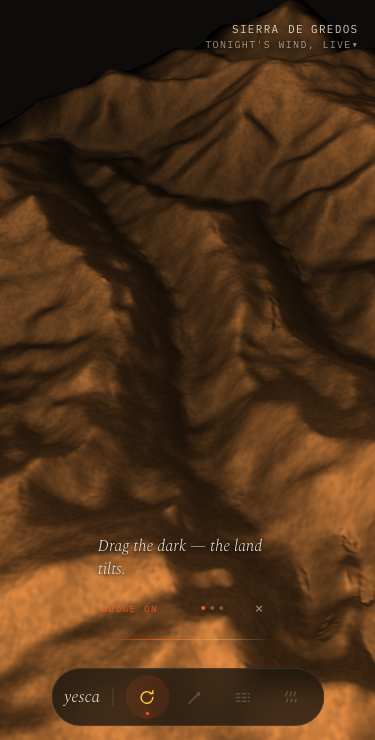
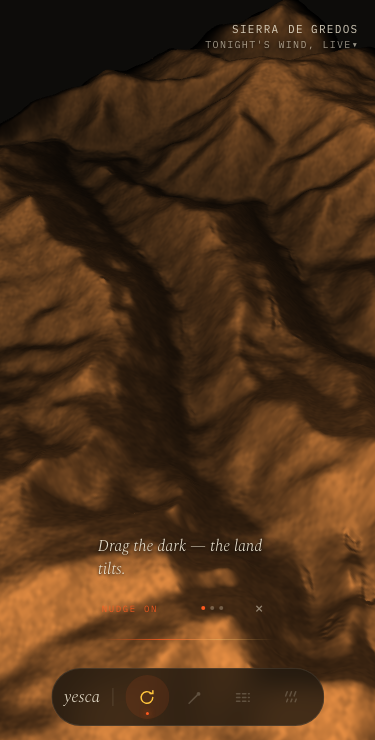
r13: walk the finger in screen space; keyframe exits that own the element
Design review r12 (live-driven): 8 axes at 8, two at 7.

Feel of direct manipulation (7 → fixes):
- pointer moves now walk the real screen path every ~8px and raycast each
  step — a UV chord between sparse events cut across ridges the finger
  never touched (probe: 20/20 fuelled cells cleared on a fast flick)
- Sim.stamp batches strokes into 64-point shader batches instead of
  striding every nth point — long strokes land whole
- release replays the walked path for firebreak and rain, not the sparse
  endpoints; rain gets the same continuous treatment during the drag
- hover whispers fade out when the pointer leaves a scar (fadeWhisper)

Motion quality (7 → fixes):
- every dismissible surface exits via a to-only keyframe animation, not
  animation:none + transition — removing a running animation never seeds
  a transition, so mid-entrance skips teleported to opacity 0. now
  guide-out/sheet-out/tray-out/chip-out/notice-out/back-out interpolate
  from the live value (getAnimations: a real tween runs)
- .guide.out selector prefixed with body.revealed so it outranks the
  entrance rule's specificity (0,3,1 > 0,2,1)
- guide stays mounted 460ms for the 420ms exit, not 500ms past a
  transition that couldn't run
- share chip stays mounted under the open sheet — the scrim covers it,
  the close reveals it; no chip-in replay

Plus: satellite count uses the animated NumberFlow like every other
instrument; g-morph is aria-hidden so TextMorph's internal word clones
[…]

diff --git a/src/App.tsx b/src/App.tsx
@@ -114,6 +114,11 @@ export default function App() {
       if (id === whisperSeq.current) setHoverTag(null);
     }, ms + 180);
   };
+  // hover whispers fade too — moving off a scar is not a teleport either
+  const fadeWhisper = () => {
+    setHoverTag((h) => (h ? { ...h, out: true } : h));
+    setTimeout(() => setHoverTag((h) => (h?.out ? null : h)), 200);
+  };
   const [offline, setOffline] = useState(!navigator.onLine);
   const [notice, setNotice] = useState<string | null>(null);
   const [noticeOut, setNoticeOut] = useState(false);
@@ -363,7 +368,8 @@ export default function App() {
       setGuideGone(false);
       return;
     }
-    const t = setTimeout(() => setGuideGone(true), 500);
+    // the exit transition is 420ms — hold the node just past it, not 1.25s
+    const t = setTimeout(() => setGuideGone(true), 460);
     return () => clearTimeout(t);
   }, [guideStep]);
 
@@ -410,6 +416,7 @@ export default function App() {
     let hoverAt = 0;
 
     let pressPt: { x: number; y: number; id: number } | null = null;
+    let lastEv: { x: number; y: number } | null = null;
     const down = (e: PointerEvent) => {
       const p = stage.pick(e.clientX, e.clientY);
       gatePick = p; // fresh every press, before any branch consumes it
@@ -422,6 +429,7 @@ export default function App() {
       if (!p) return; // off-terrain presses fall through to orbit
       e.stopImmediatePropagation();
       paintId = e.pointerId;
+      lastEv = { x: e.clientX, y: e.clientY };
       stroke = [{ u: p.u, v: p.v }];
       if (t === "match") {
         sim.stamp(3, stroke, 5);
@@ -447,42 +455,51 @@ export default function App() {
             const c = sim.cell(p.u, p.v);
             if (c[0]! >= 1.5 && c[2]! > 0) {
               const ago = Math.max(1, Math.round((sim.time - c[2]!) / 60));
+              whisperSeq.current++; // a fresh whisper invalidates old timers
               setHoverTag({
                 x: e.clientX,
                 y: e.clientY,
                 text: `burned ${ago} min ago`,
               });
-            } else setHoverTag(null);
-          } else setHoverTag(null);
+            } else fadeWhisper();
+          } else fadeWhisper();
         }
         return;
       }
       if (e.pointerId !== paintId) return;
-      const p = stage.pick(e.clientX, e.clientY);
-      if (!p) return;
-      const last = stroke[stroke.length - 1];
-      if (last && Math.hypot(p.u - last.u, p.v - last.v) > 6 / 768) {
-        // densify so a fast hand leaves a continuous mark, not dots — the
-        // match scores and the firebreak cuts share the same interpolation
-        const d = Math.hypot(p.u - last.u, p.v - last.v);
-        const steps = Math.max(1, Math.ceil(d / (2 / 768)));
-        const dense: { u: number; v: number }[] = [];
-        for (let k = 1; k <= steps; k++) {
-          dense.push({ u: last.u + (p.u - last.u) * (k / steps), v: last.v + (p.v - last.v) * (k / steps) });
+      const from = lastEv ?? { x: e.clientX, y: e.clientY };
+      lastEv = { x: e.clientX, y: e.clientY };
+      // walk the finger's real path in screen space, ~8px at a time — a chord
+      // between two sparse picks cuts across a ridge it never touched
+      const seg = Math.hypot(e.clientX - from.x, e.clientY - from.y);
+      const steps = Math.min(80, Math.max(1, Math.ceil(seg / 8)));
+      const fresh: { u: number; v: number }[] = [];
+      for (let k = 1; k <= steps; k++) {
+        const sp = stage.pick(
+          from.x + ((e.clientX - from.x) * k) / steps,
+          from.y + ((e.clientY - from.y) * k) / steps,
+        );
+        if (!sp) continue; // off the slab — the mark stops where the land does
+        const last = stroke[stroke.length - 1];
+        if (!last || Math.hypot(sp.u - last.u, sp.v - last.v) > 2 / 768) {
+          const pt = { u: sp.u, v: sp.v };
+          stroke.push(pt);
+          fresh.push(pt);
         }
-        stroke.push({ u: p.u, v: p.v });
-        if (t === "match") {
-          sim.stamp(3, dense, 5);
-          fx.sputter(p.u, p.v);
-        } else if (t === "break") {
-          sim.stamp(1, dense, 10);
-        }
+      }
+      if (!fresh.length) return;
+      const head = fresh[fresh.length - 1]!;
+      if (t === "match") {
+        sim.stamp(3, fresh, 5);
+        fx.sputter(head.u, head.v);
+      } else if (t === "break") {
+        sim.stamp(1, fresh, 10);
       }
       if (t === "rain") {
         const now = performance.now();
         if (now - lastRain > 90) {
-          sim.stamp(2, [stroke[stroke.length - 1]!], 34, 0.9);
-          fx.rain(p.u, p.v);
+          sim.stamp(2, fresh, 34, 0.9);
+          fx.rain(head.u, head.v);
           rainDamp.current = Math.min(6, rainDamp.current + 0.8);
           lastRain = now;
         }
@@ -518,6 +535,7 @@ export default function App() {
       if (pressPt?.id === e.pointerId) pressPt = null;
       if (paintId === -1 || e.pointerId !== paintId) return;
       paintId = -1;
+      lastEv = null;
       if (toolRef.current === "match" && stroke.length) {
         // a dragged match drops a line of fire along the last stretch,
         // then flares where the stroke ends
@@ -540,12 +558,17 @@ export default function App() {
         }, 1800);
       }
       if (toolRef.current === "break" && stroke.length) {
+        // the finishing cut replays the walked path, not the sparse endpoints
         sim.stamp(1, stroke, 10);
         brokeOnce.current = true;
         nudge();
         advanceGuide();
       }
-      if (toolRef.current === "rain" && stroke.length) nudge();
+      if (toolRef.current === "rain" && stroke.length) {
+        // the whole wet path lands, even under the 90ms throttle
+        sim.stamp(2, stroke, 30, 0.9);
+        nudge();
+      }
       stroke = [];
       e.stopImmediatePropagation();
     };
@@ -556,6 +579,7 @@ export default function App() {
       if (pressPt?.id === e.pointerId) pressPt = null;
       if (paintId === -1 || e.pointerId !== paintId) return;
       paintId = -1;
+      lastEv = null;
       stroke = [];
       e.stopImmediatePropagation();
     };
@@ -564,10 +588,7 @@ export default function App() {
     canvas.addEventListener("pointerup", upEvt, true);
     canvas.addEventListener("pointercancel", cancelEvt, true);
     // the whisper fades out under the leaving hand rather than cutting away
-    const leave = () => {
-      setHoverTag((h) => (h ? { ...h, out: true } : h));
-      setTimeout(() => setHoverTag((h) => (h?.out ? null : h)), 200);
-    };
+    const leave = () => fadeWhisper();
     canvas.addEventListener("pointerleave", leave);
     return () => {
       canvas.removeEventListener("pointerdown", down, true);
@@ -794,7 +815,15 @@ export default function App() {
               title="real detections from NASA's satellites, last few days"
             >
               <span className="lbl">
-                real burns{hotspots?.length ? ` · ${hotspots.length}` : ""}
+                real burns
+                {hotspots?.length ? (
+                  <>
+                    {" "}
+                    · <NumberFlow value={hotspots.length} format={{ maximumFractionDigits: 0 }} />
+                  </>
+                ) : (
+                  ""
+                )}
               </span>
               <i className="sw" />
             </button>
@@ -818,7 +847,9 @@ export default function App() {
             </button>
           </div>
 
-          {burntKm2 > 0.004 && !shareOpen && guideStep === "done" && (
+          {/* the chip never leaves — the sheet-back scrim covers it while open,
+              and the close just reveals it instead of replaying chip-in */}
+          {burntKm2 > 0.004 && guideStep === "done" && (
             <button
               className="sharechip"
               onClick={(e) => {

diff --git a/src/index.css b/src/index.css
@@ -367,7 +367,11 @@ body.revealed .rail.dim, body.revealed .instruments.dim {
    gives the sentence its own line and the controls the next */
 .g-top, .g-meta { display: contents; }
 /* TextMorph can't wrap — the phone swaps it for a plain twin of the lesson */
-.g-plain { display: none; }
+/* desktop: the morph paints, the plain copy reads — hidden visually, not to AT */
+.g-plain {
+  position: absolute; width: 1px; height: 1px;
+  overflow: hidden; clip-path: inset(50%); white-space: nowrap;
+}
 /* the pointer copy can't teach keys — this line exists only for tab users */
 .g-keys {
   display: none;
@@ -407,11 +411,18 @@ body.kb .g-keys { display: inline; }
 }
 .g-skip:hover { opacity: 0.9; }
 .g-skip:focus-visible { outline: 1px solid var(--amber); outline-offset: 3px; }
-/* the lesson leaves the way it came — a fade, not a vanish */
+/* the lesson leaves the way it came — a fade, not a vanish. the exit is a
+   keyframe, not a transition: a `to`-only animation interpolates from the live
+   computed value, so a skip mid-entrance fades from wherever hud-in-c had
+   reached. a removed animation would not seed a transition — it jumps.
+   the prefixed selector outranks body.revealed .guide's entrance rule */
+body.revealed .guide.out,
 .guide.out {
-  opacity: 0; transform: translateX(-50%) translateY(8px);
-  transition: opacity 420ms var(--ease-out), transform 420ms var(--ease-out);
+  animation: guide-out 420ms var(--ease-out) both;
   pointer-events: none;
+}
+@keyframes guide-out {
+  to { opacity: 0; transform: translateX(-50%) translateY(8px); }
 }
 .guide { transition: opacity 300ms var(--ease-out), transform 300ms var(--ease-out); }
 
@@ -429,7 +440,11 @@ body.kb .g-keys { display: inline; }
   animation: chip-in 260ms var(--ease-out) backwards;
   transition: opacity 160ms var(--ease-out); /* whispers fade, they don't blink */
 }
-.hoverchip.out { opacity: 0; }
+/* same to-only pattern — fades from wherever the entrance had reached */
+.hoverchip.out { animation: chip-out 160ms var(--ease-out) both; }
+@keyframes chip-out {
+  to { opacity: 0; }
+}
 @keyframes chip-in {
   from { opacity: 0; transform: translateY(calc(-100% + 4px)); }
   to { opacity: 1; transform: translateY(-100%); }
@@ -452,8 +467,12 @@ body.kb .g-keys { display: inline; }
   animation: guide-in 400ms var(--ease-spring) backwards;
   transition: opacity 180ms var(--ease-out), transform 180ms var(--ease-out);
 }
-/* a status that arrives with motion leaves with motion too */
-.offline.out { opacity: 0; transform: translateX(-50%) translateY(-4px); }
+/* a status that arrives with motion leaves with motion too — to-only so a
+   dismiss mid-entrance starts from the live value */
+.offline.out { animation: notice-out 180ms var(--ease-out) both; }
+@keyframes notice-out {
+  to { opacity: 0; transform: translateX(-50%) translateY(-4px); }
+}
 
 /* ---------- place tray ---------- */
 
@@ -477,8 +496,11 @@ body.kb .g-keys { display: inline; }
 }
 .placetray { transition: opacity 240ms var(--ease-out), transform 240ms var(--ease-out); }
 .placetray.out {
-  opacity: 0; transform: scale(0.97) translateY(-4px);
+  animation: tray-out 240ms var(--ease-out) both;
   pointer-events: none;
+}
+@keyframes tray-out {
+  to { opacity: 0; transform: scale(0.97) translateY(-4px); }
 }
 .pt-head { padding: 10px 12px 8px; border-bottom: 1px solid rgba(233,225,206,0.08); }
 .pt-head input {
@@ -554,7 +576,10 @@ body.kb .g-keys { display: inline; }
   transition: opacity 240ms var(--ease-out);
 }
 @keyframes fade-in { from { opacity: 0; } }
-.sheet-back.out { opacity: 0; pointer-events: none; }
+.sheet-back.out { animation: back-out 240ms var(--ease-out) both; pointer-events: none; }
+@keyframes back-out {
+  to { opacity: 0; }
+}
 .sheet {
   background: none;
   border: none;
@@ -571,10 +596,13 @@ body.kb .g-keys { display: inline; }
   from { opacity: 0; transform: translateY(14px) scale(0.96) rotate(-0.6deg); }
   to { opacity: 1; transform: none; }
 }
-/* the close retraces the open — the card folds back toward the chip's corner */
+/* the close retraces the open — the card folds back toward the chip's corner.
+   to-only so a close during sheet-in folds from wherever the card had got to */
 .sheet-back.out .sheet {
-  opacity: 0;
-  transform: scale(0.94) translateY(10px) rotate(-0.6deg);
+  animation: sheet-out 220ms var(--ease-out) both;
+}
+@keyframes sheet-out {
+  to { opacity: 0; transform: scale(0.94) translateY(10px) rotate(-0.6deg); }
 }
 .sheet canvas {
   width: 100%; height: auto; display: block;
@@ -647,7 +675,7 @@ body.kb .g-keys { display: inline; }
   .sheet-actions button, .sheet-actions a { min-height: 44px; display: inline-flex; align-items: center; }
   /* rail tops out at 148+44=192 — the chip clears it with room to spare */
   .sharechip { left: 16px; bottom: 204px; min-height: 44px; display: inline-flex; align-items: center; }
-  .tray { bottom: 14px; padding: 6px 10px 6px 12px; }
+  .tray { bottom: calc(14px + env(safe-area-inset-bottom)); padding: 6px 10px 6px 12px; }
   .dock-brand span { display: none; }
   .tbtn { width: 44px; height: 44px; }
   /* the phone lesson is two rows: the sentence alone, then the controls —
@@ -658,7 +686,7 @@ body.kb .g-keys { display: inline; }
   .g-meta { display: flex; align-items: center; gap: 14px; }
   .g-meta .g-dots { margin-left: auto; }
   .g-morph { display: none; }
-  .g-plain { display: inline; }
+  .g-plain { display: inline; position: static; width: auto; height: auto; overflow: visible; clip-path: none; white-space: normal; }
   .placetray { top: 56px; right: 16px; left: 16px; width: auto; }
 }
 
@@ -678,6 +706,6 @@ body.kb .g-keys { display: inline; }
   .toolflash, .loading .bar i { animation: none; }
   /* decorative exits don't slide under reduce — they settle instantly */
   .guide.out, .placetray.out, .sheet-back.out,
-  .sheet-back.out .sheet, .offline.out, .hoverchip.out { transition-duration: 0.001ms; }
+  .sheet-back.out .sheet, .offline.out, .hoverchip.out { animation-duration: 0.001ms; }
   .vane .needle { transition-duration: 200ms; }
 }

diff --git a/src/engine/Sim.ts b/src/engine/Sim.ts
@@ -269,13 +269,13 @@ export class Sim {
 
   /** queue a brush stroke; mode 0=ignite 1=firebreak 2=rain 3=scratch */
   stamp(mode: 0 | 1 | 2 | 3, points: { u: number; v: number }[], radiusPx: number, strength = 1) {
-    // resample long strokes evenly so a 64-stamp cap covers the whole path
-    const step = Math.max(1, Math.ceil(points.length / 64));
-    const pts = points
-      .filter((_, i) => i % step === 0)
-      .slice(0, 64)
-      .map((p) => new THREE.Vector4(p.u, p.v, radiusPx / N, strength));
-    if (pts.length) this.stampQueue.push({ mode, pts });
+    // a stroke longer than one batch is split, not strided — every point lands
+    for (let i = 0; i < points.length; i += 64) {
+      const pts = points
+        .slice(i, i + 64)
+        .map((p) => new THREE.Vector4(p.u, p.v, radiusPx / N, strength));
+      if (pts.length) this.stampQueue.push({ mode, pts });
+    }
   }
 
   private applyStamps() {

diff --git a/src/ui/Guide.tsx b/src/ui/Guide.tsx
@@ -43,7 +43,9 @@ export function Guide({ step, closing, onSkip, buzzOn, onBuzz }: Props) {
       <div className="g-top">
         <span className="g-k">{c.k}</span>
         <span className="g-line">
-          <span className="g-morph">
+          {/* morph duplicates words internally — the plain twin is the one
+              screen readers get (visually hidden on desktop, shown on mobile) */}
+          <span className="g-morph" aria-hidden="true">
             <TextMorph>{c.line}</TextMorph>
           </span>
           <span className="g-plain">{c.line}</span>
